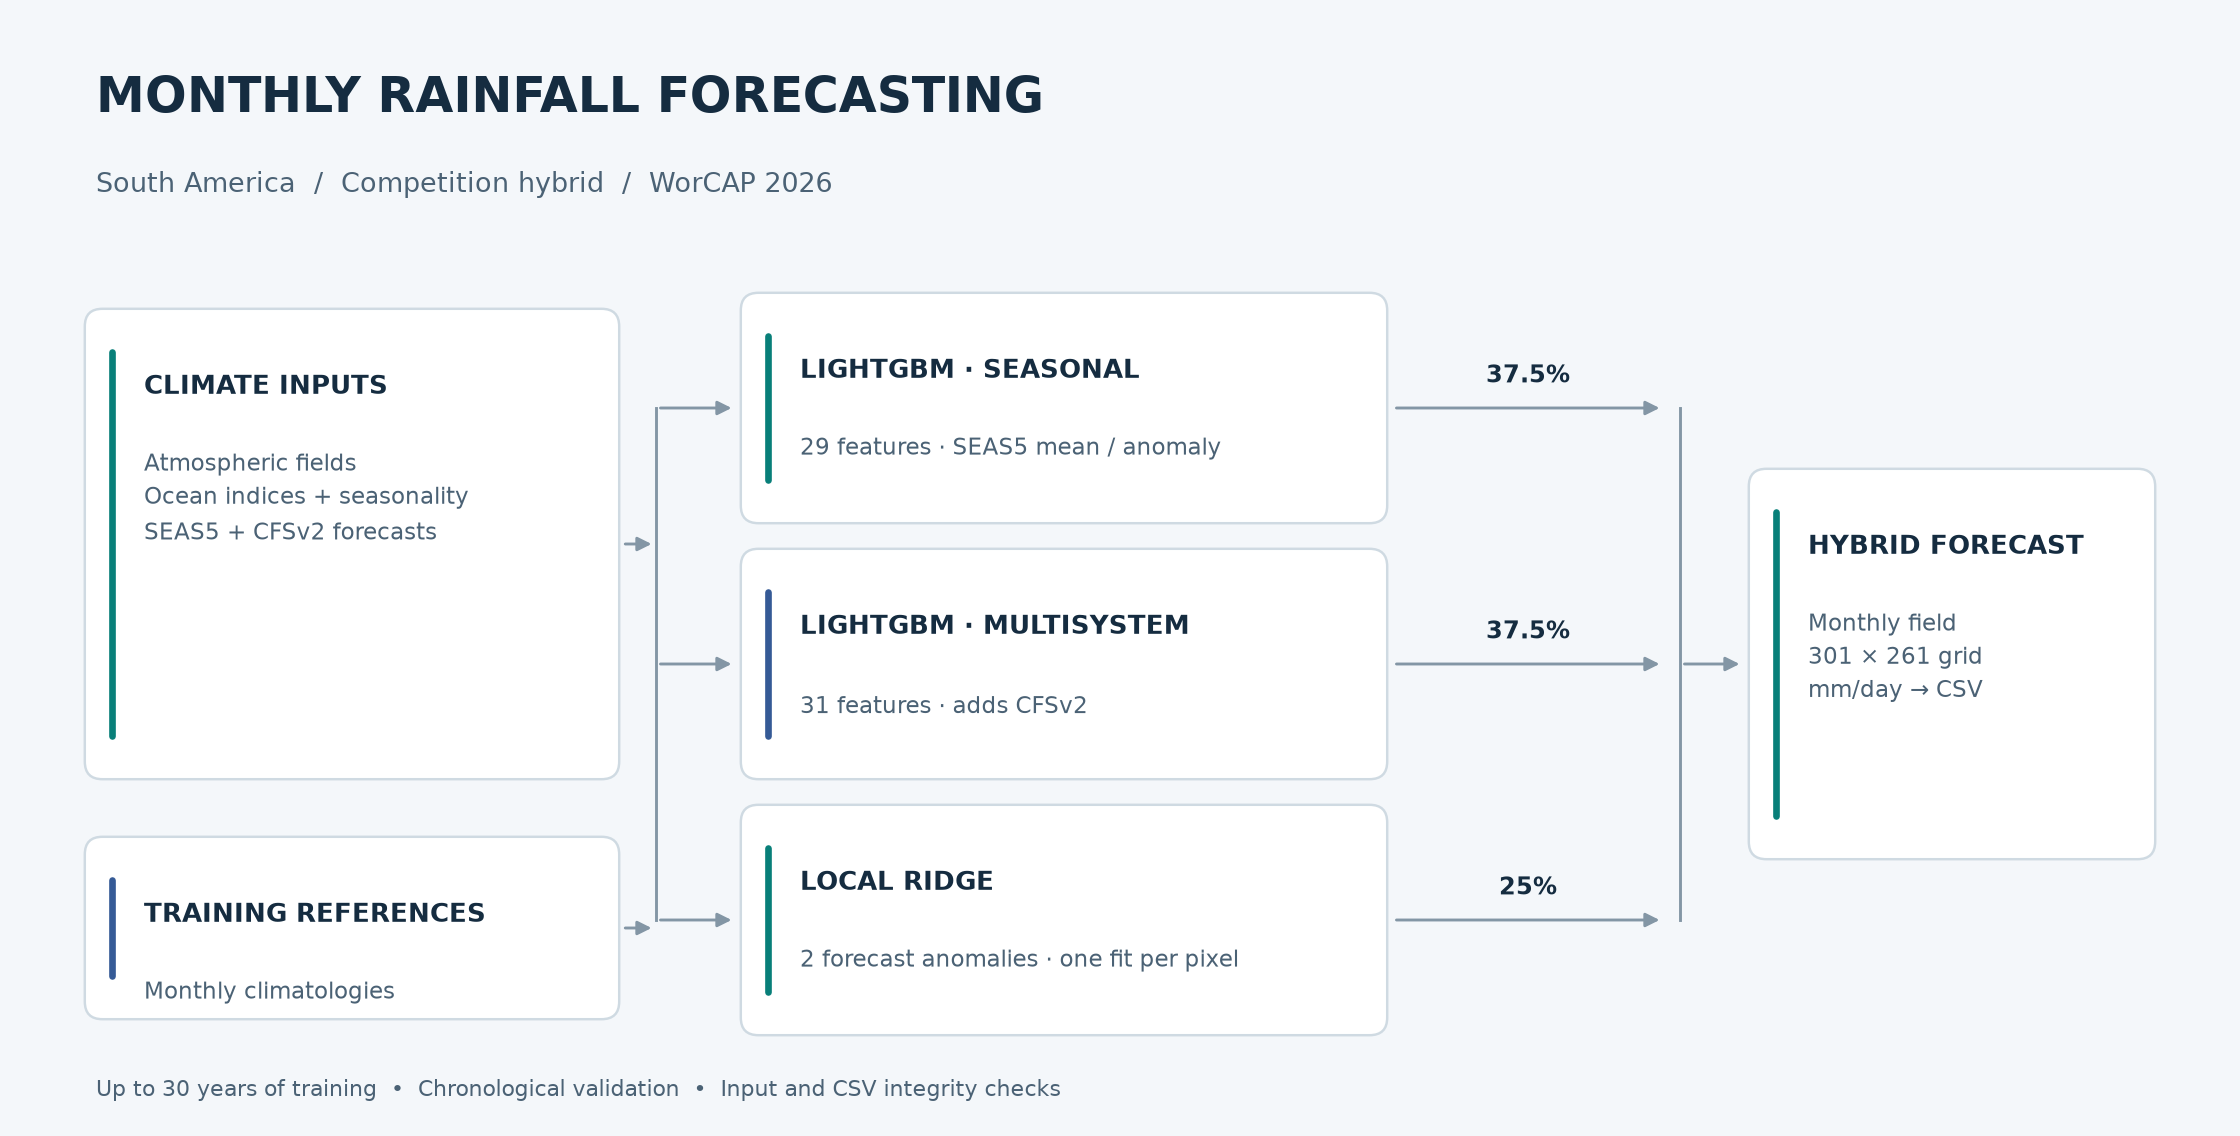
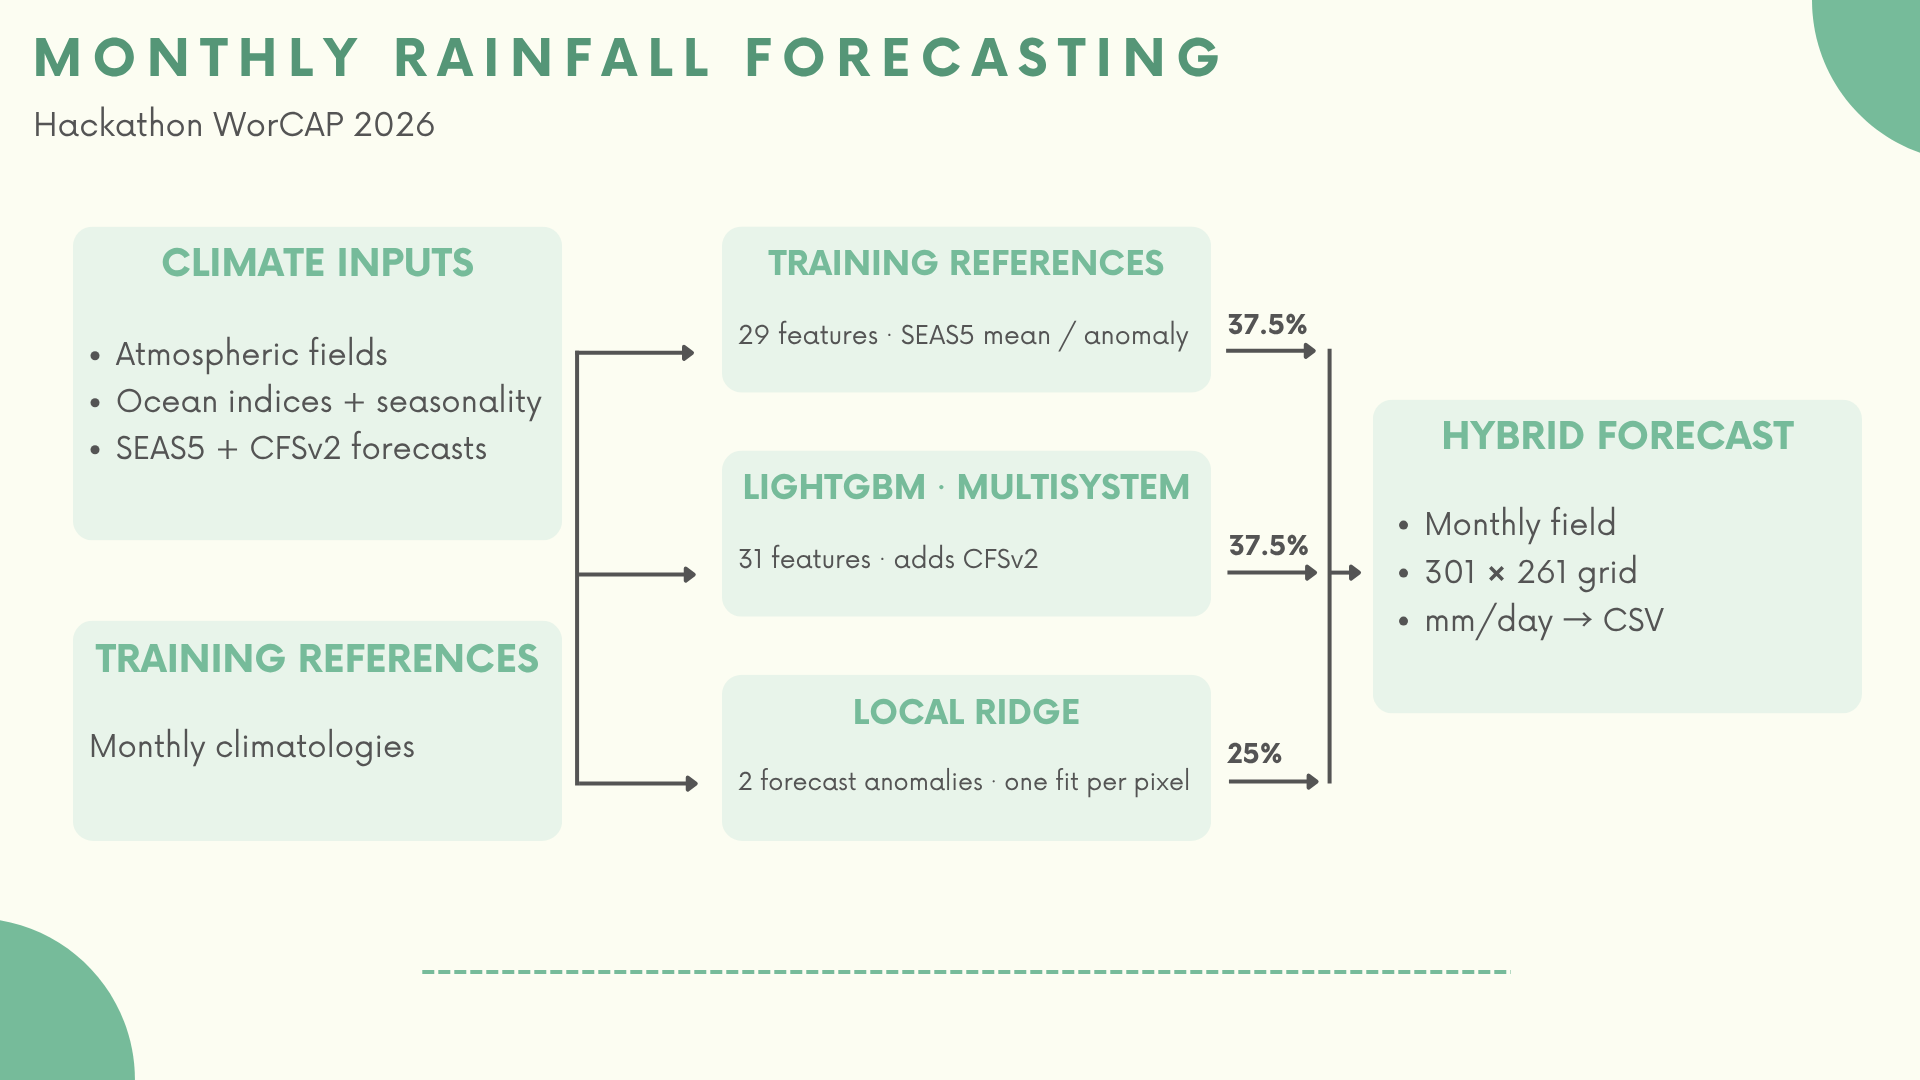
Use author-designed model overview in README

diff --git a/scripts/render_overview.py b/scripts/render_overview.py
@@ -1,4 +1,4 @@
-"""Render the documented competition architecture; no synthetic forecast data."""
+"""Render a reference diagram without overwriting the author-designed README artwork."""
 from pathlib import Path
 import matplotlib
 matplotlib.use('Agg')
@@ -44,7 +44,7 @@ def main():
     arrow(105,29.5,109,29.5)
     box(110,18,24,23,'HYBRID FORECAST','Monthly field\n301 × 261 grid\nmm/day → CSV')
     ax.text(6,2.5,'Up to 30 years of training  •  Chronological validation  •  Input and CSV integrity checks',fontsize=10,color=MUTED)
-    path=ROOT/'assets/model_overview.png'
+    path=ROOT/'outputs/model_overview_generated.png'
     path.parent.mkdir(parents=True,exist_ok=True)
     fig.savefig(path,dpi=160,facecolor=BG)
     plt.close(fig)

diff --git a/scripts/README.md b/scripts/README.md
@@ -9,7 +9,7 @@
 - `build_spatial_notebooks.py`: build the separate U-Net experiment and final-baseline inference notebooks.
 - `build_workflow_notebook.py`: build the unified saved-evaluation/training notebook and its checked source bundle.
 - `build_extension_notebook.py`: build the fixed 2021–2022 temporal-extension notebook, with separate prediction freezing and evaluation.
-- `render_overview.py`: regenerate the model architecture image with Matplotlib.
+- `render_overview.py`: render a reference architecture diagram to `outputs/model_overview_generated.png`. The README uses the author-designed artwork in `assets/model_overview.png`; this script leaves it unchanged.
 - `render_october_forecast.py`: render the frozen October forecast, climatology and anomaly after checking the forecast and Natural Earth coastline hashes in `assets/forecast_october_2026.json`.
 - `build_workbench_notebook.py`: build the shared notebook for result review, saved-map evaluation, existing training and read-only operational readiness.
 - `build_residual_notebook.py`, `build_sst_extension_notebook.py`, `build_sst_unet_blend_notebook.py`: package the separate, fixed research experiments.
